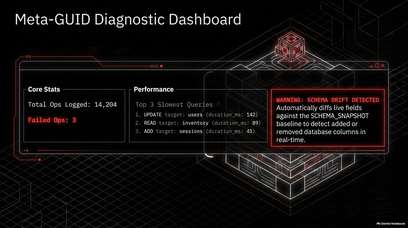
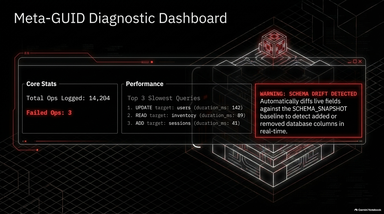
Apply additional 6% image size reduction (from 408x228 to 384x214) using Pillow LANCZOS resampling

diff --git a/resize_images.py b/resize_images.py
@@ -2,9 +2,8 @@
 """
 Image Resizer Script
 Author: Elton Boehnen (boehnenelton2024@gmail.com)
-Description: Restores original full-sized images from 'images/backup/' and applies
-             an additional 22% reduction from current size (overall ~51.6% scaling down
-             to ~484x271) while maintaining aspect ratio using Pillow.
+Description: Resizes images from 'images/backup/' with an additional 6% reduction
+             from current size (scaling down to 384x214) while maintaining aspect ratio using Pillow.
 """
 import os
 import shutil
@@ -13,10 +12,10 @@ from PIL import Image
 SRC_DIR = "images"
 BACKUP_DIR = os.path.join(SRC_DIR, "backup")
 
-# Current images are at 38% of original size.
-# A further 22% reduction means taking 78% (100% - 22%) of current size:
-# 0.38 * 0.78 = 0.2964 (~29.64% of original size, or 523 * 0.78 = 408x228)
-ADDITIONAL_REDUCTION_FACTOR = 0.78  # Reduce current size by 22% (keep 78%)
+# Current images are at 408x228.
+# An additional 6% reduction means keeping 94% (100% - 6% = 94%):
+# 408 * 0.94 = 383.52 -> 384x214
+ADDITIONAL_REDUCTION_FACTOR = 0.94  # Reduce current size by 6% (keep 94%)
 
 def main():
     if not os.path.exists(BACKUP_DIR):
@@ -29,7 +28,7 @@ def main():
         print("[INFO] No images found to process.")
         return
 
-    print(f"[INFO] Processing {len(files)} images with additional 22% size reduction...")
+    print(f"[INFO] Processing {len(files)} images with additional 6% size reduction...")
 
     for f in files:
         src_path = os.path.join(SRC_DIR, f)
@@ -47,7 +46,7 @@ def main():
         new_w = int(round(curr_w * ADDITIONAL_REDUCTION_FACTOR))
         new_h = int(round(curr_h * ADDITIONAL_REDUCTION_FACTOR))
 
-        # Open original full-res image from backup to avoid multi-generational resampling artifacts
+        # Open original full-res image from backup to preserve quality
         with Image.open(backup_path) as orig_img:
             orig_w, orig_h = orig_img.size
             resample_filter = getattr(Image, "Resampling", Image).LANCZOS
@@ -59,7 +58,7 @@ def main():
 
             print(f"  -> {f}: {curr_w}x{curr_h} -> {new_w}x{new_h} ({new_size_bytes} bytes)")
 
-    print("[SUCCESS] All images reduced by an additional 22%!")
+    print("[SUCCESS] All images reduced by an additional 6%!")
 
 if __name__ == "__main__":
     main()
